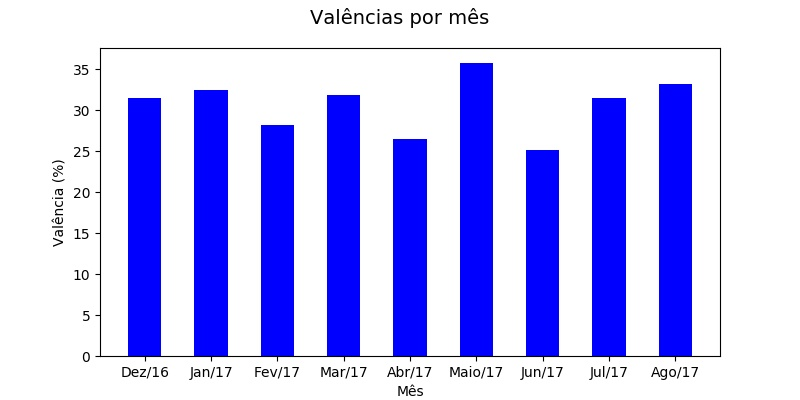
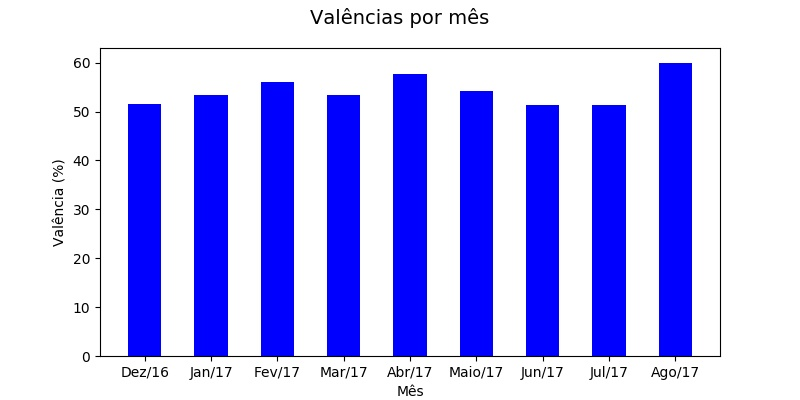
Fixed wrong logic in the valence calculation.

diff --git a/T2/problema1.py b/T2/problema1.py
@@ -110,7 +110,6 @@ with open('lexico_v3.0.txt', encoding='utf8') as csvFile:
         feature.append(row[1])
         feature.append(row[2])
         feature.append(row[3])
-        #features = list(list(rec) for rec in csv.reader(csvFile, delimiter=','))
         features.append(feature)
         count = count + 1
 csvFile.close()
@@ -160,12 +159,12 @@ with open('resultados.txt', 'w', encoding='utf8') as wfile:
             intensity = dist.prob('1')
         elif valence == '-1':
             valStr = 'Negativa'
-            intensity = dist.prob('-1')
+            intensity = (-1)*dist.prob('-1')
         else:
             valStr = 'Neutra'
             intensity = 0
         # Conversão
-        intPercent = 100*(((-1)*intensity)+1)/2
+        intPercent = 100*(intensity+1)/2
         intensities.append(intPercent)
         wfile.write('{0:60.58} {1:5.2f}\n'.format(org_headline, intPercent))
         count = count + 1;
